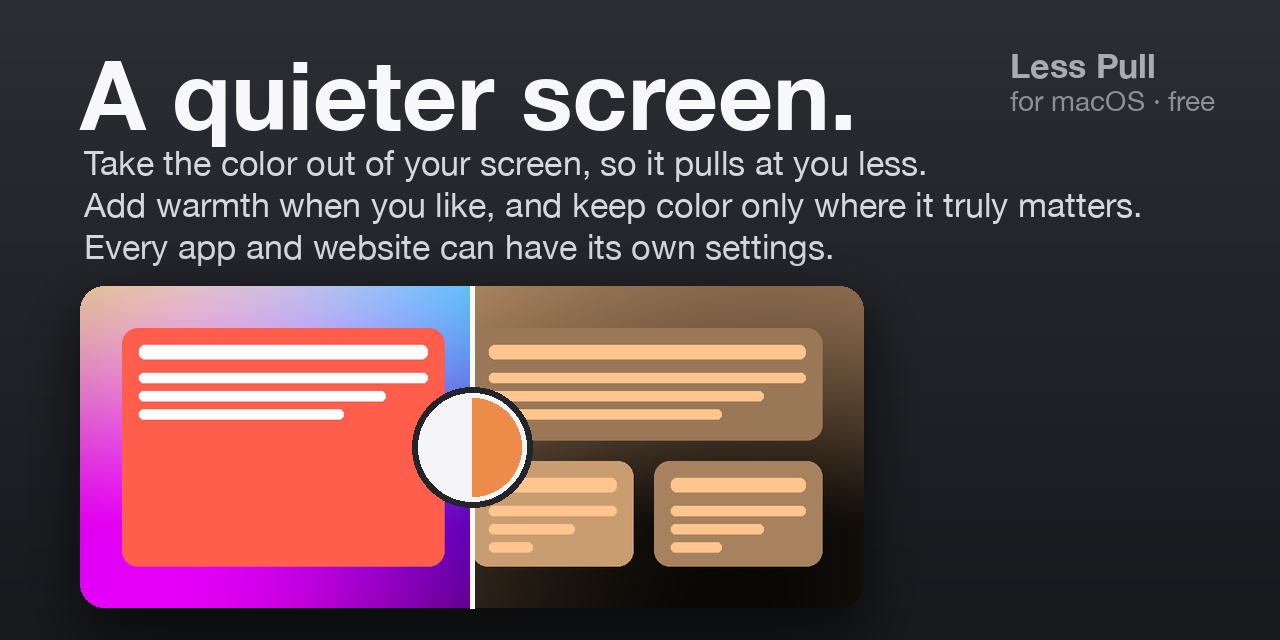
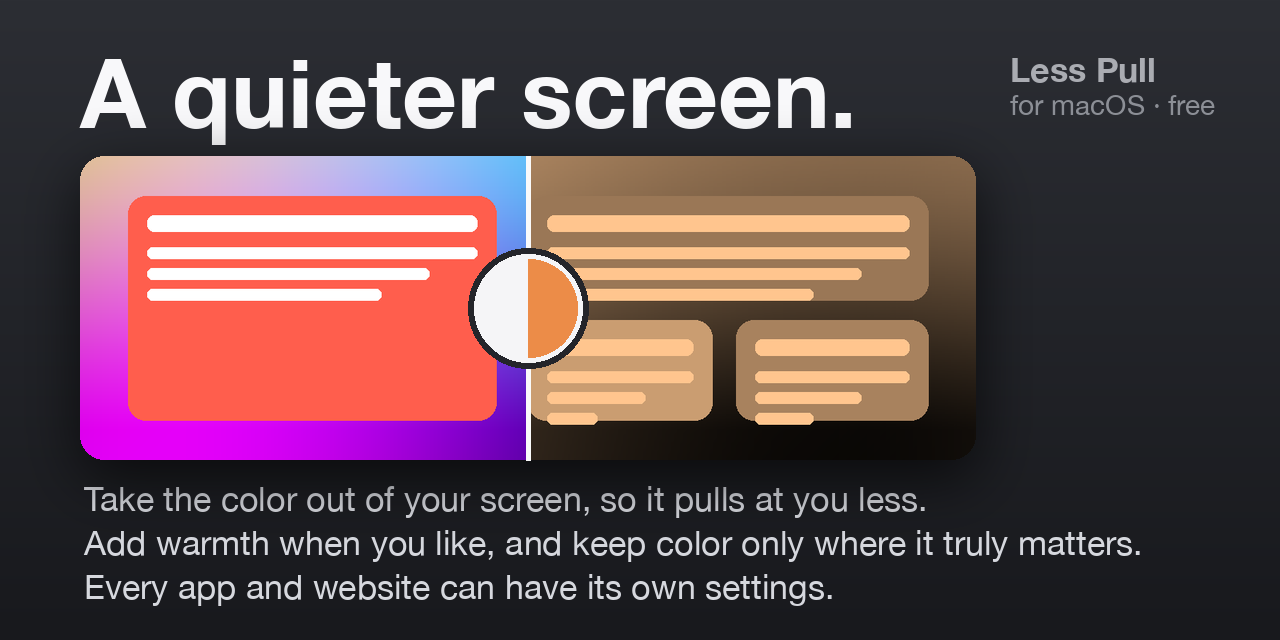
Social preview: screen in the middle, the three lines below

diff --git a/docs/assets/src/social-preview.py b/docs/assets/src/social-preview.py
@@ -13,12 +13,12 @@ def matrix(s, gray=True):
     g = gains(s); luma = [.30, .59, .11]; mix = 1 if gray else s / 3
     return np.array([[((1 - mix) * (1 if r == c else 0) + mix * luma[c]) * g[r] for c in range(3)] for r in range(3)])
 # a vivid "screen": wallpaper gradient plus app-like cards
-sw, sh = 1120, 460
+sw, sh = 1120, 380
 y, x = np.mgrid[0:sh, 0:sw]
 wall = np.stack([120 + 110 * np.sin(x / 260 + 1.2), 80 + 120 * np.cos(y / 180 + .4), 150 + 100 * np.sin((x + y) / 320)], -1).clip(0, 255).astype('uint8')
 screen = Image.fromarray(wall, 'RGB').convert('RGBA')
 d = ImageDraw.Draw(screen)
-cards = [((60, 60, 520, 400), (255, 94, 77)), ((560, 60, 1060, 220), (66, 181, 255)), ((560, 250, 790, 400), (255, 203, 60)), ((820, 250, 1060, 400), (84, 220, 120))]
+cards = [((60, 50, 520, 330), (255, 94, 77)), ((560, 50, 1060, 180), (66, 181, 255)), ((560, 205, 790, 330), (255, 203, 60)), ((820, 205, 1060, 330), (84, 220, 120))]
 for (x0, y0, x1, y1), col in cards:
     d.rounded_rectangle((x0, y0, x1, y1), 22, fill=col)
     d.rounded_rectangle((x0 + 24, y0 + 24, x1 - 24, y0 + 44), 8, fill=(255, 255, 255, 230))
@@ -36,11 +36,11 @@ def font(size, bold=False):
         except Exception: pass
     return ImageFont.load_default()
 d = ImageDraw.Draw(im)
-d.text((80, 36), 'A quieter screen.', font=font(96, True), fill=(248, 248, 250))
+d.text((80, 34), 'A quieter screen.', font=font(96, True), fill=(248, 248, 250))
+d.text((1010, 48), 'Less Pull', font=font(34, True), fill=(170, 172, 178)); d.text((1010, 88), 'for macOS · free', font=font(28), fill=(140, 143, 150))
 for i, line in enumerate(['Take the color out of your screen, so it pulls at you less.', 'Add warmth when you like, and keep color only where it truly matters.', 'Every app and website can have its own settings.']):
-    d.text((84, 142 + i * 42), line, font=font(34), fill=(214, 216, 222))
-d.text((1010, 44), 'Less Pull', font=font(34, True), fill=(170, 172, 178)); d.text((1010, 84), 'for macOS · free', font=font(28), fill=(140, 143, 150))
-scale = 0.70; sw2, sh2 = int(sw * scale), int(sh * scale); sx, sy = 80, 286
+    d.text((84, 478 + i * 44), line, font=font(34), fill=(214, 216, 222))
+scale = 0.80; sw2, sh2 = int(sw * scale), int(sh * scale); sx, sy = 80, 156
 mask = Image.new('L', (sw2, sh2), 0); ImageDraw.Draw(mask).rounded_rectangle((0, 0, sw2 - 1, sh2 - 1), 24, fill=255)
 shadow = Image.new('RGBA', im.size, (0, 0, 0, 0)); ImageDraw.Draw(shadow).rounded_rectangle((sx, sy + 18, sx + sw2, sy + sh2 + 18), 24, fill=(0, 0, 0, 170)); shadow = shadow.filter(ImageFilter.GaussianBlur(28)); im = Image.alpha_composite(im, shadow)
 im.paste(screen.resize((sw2, sh2), Image.LANCZOS), (sx, sy), mask)
